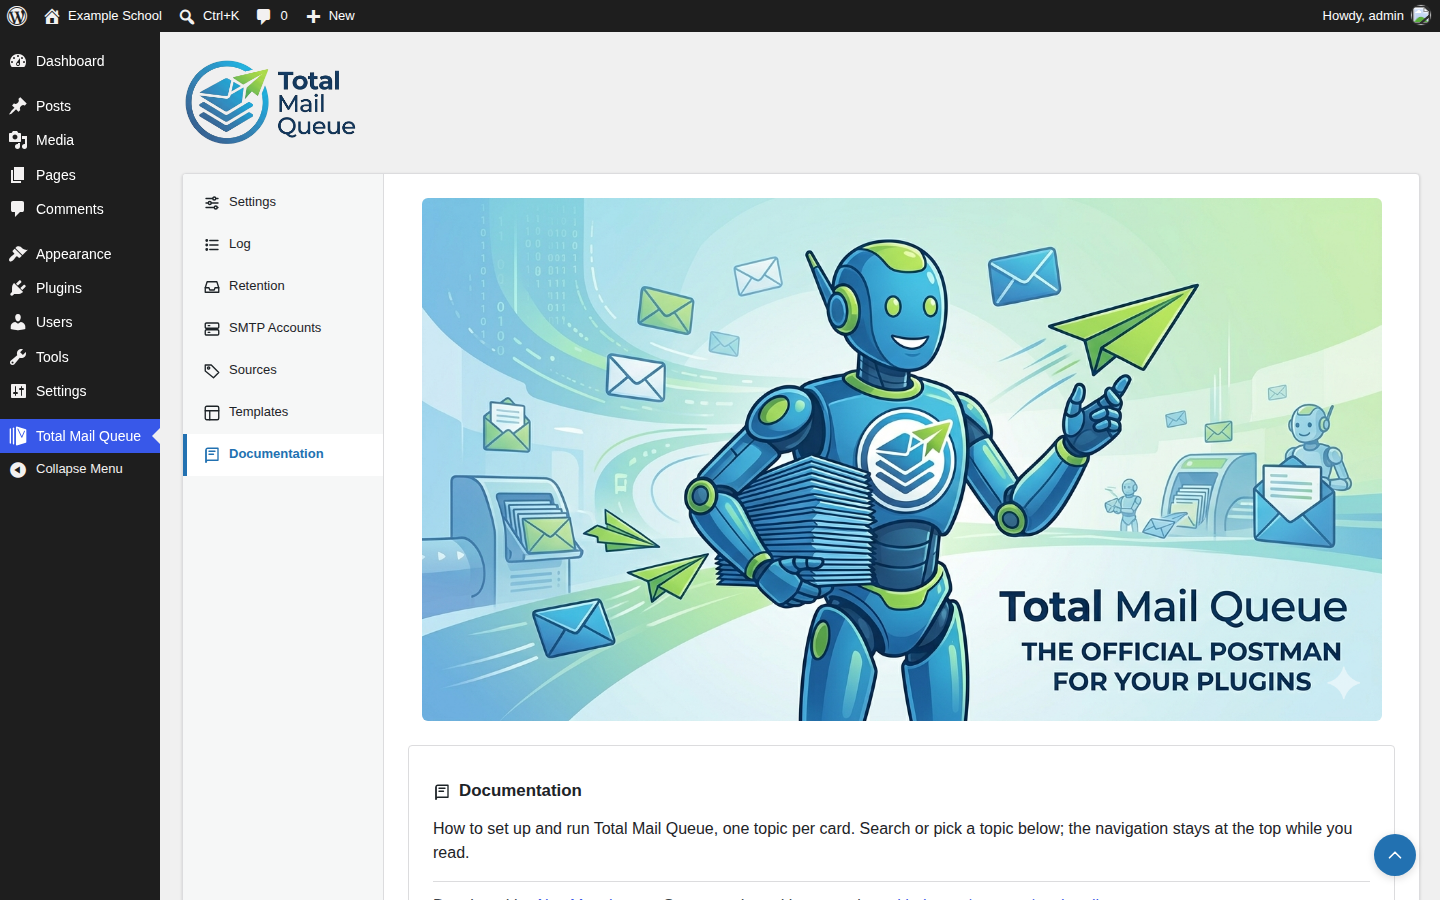
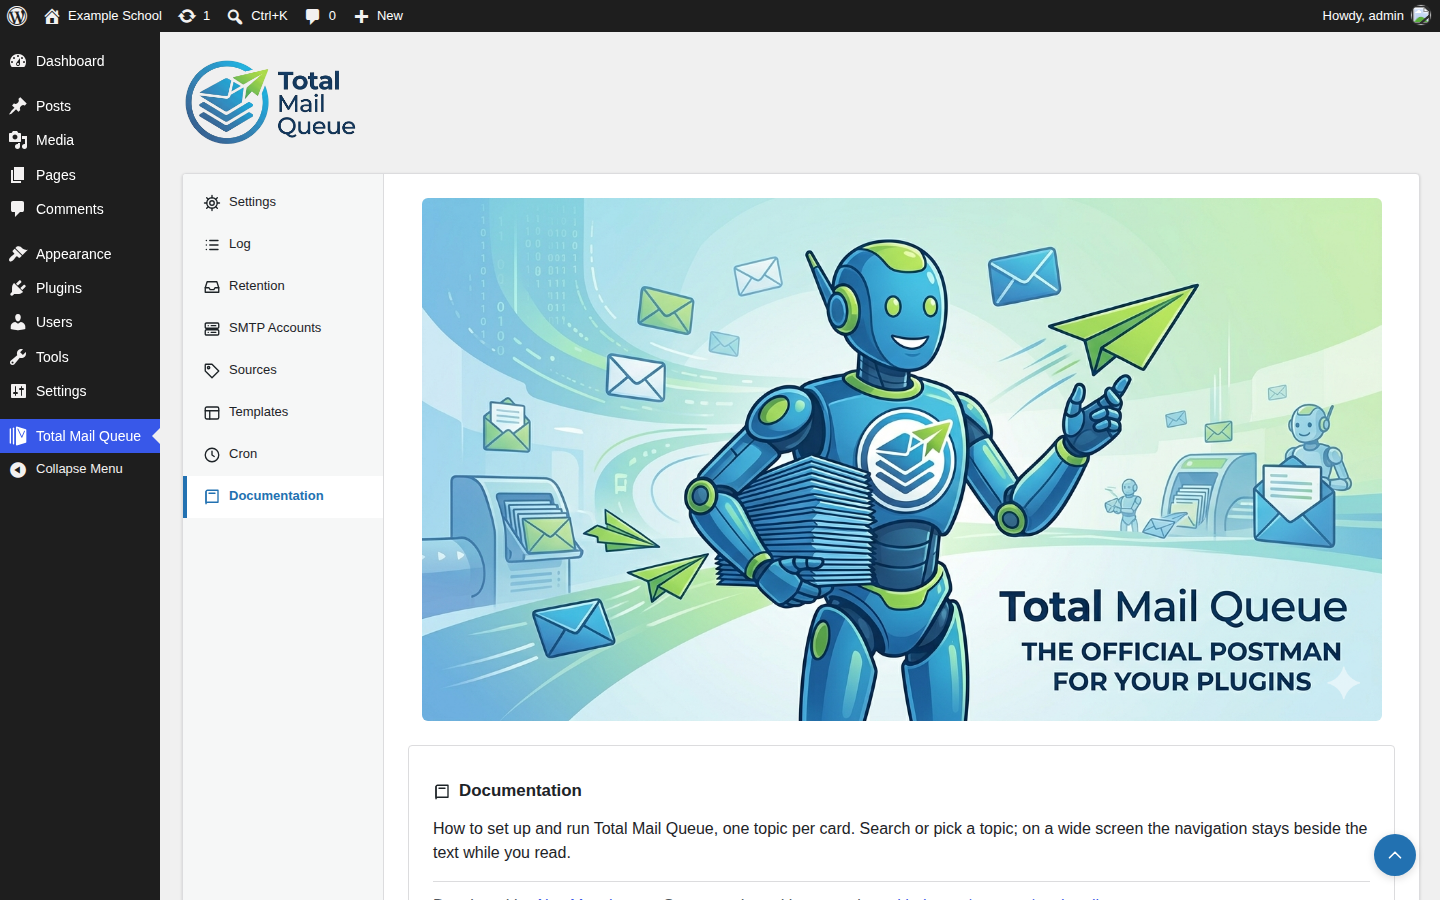
release: 2.12.0 — bump, finalize CHANGELOG, review docs
- Version 2.12.0 at its three sites; [Unreleased] becomes [2.12.0].
- readme.txt: 2.12.0 changelog entry, Upgrade Notice, Cron in the
  feature list, the FAQ and the screenshot list.
- README: a Cron section with its screenshot; Installation points at it.
- Docblocks still describing the Cron Information tab that only appeared
  with DISABLE_WP_CRON now describe the always-shown Cron tab.
- All screenshots re-captured in English with the same script and
  framing, plus 10-cron.

Claude-Session: https://claude.ai/code/session_018srx5hc431EYmG4MHUr2KA

diff --git a/src/admin/plugin-page.php b/src/admin/plugin-page.php
@@ -1,6 +1,6 @@
 <?php
 /**
- * Top-level admin page renderer (Settings / Log / Retention / SMTP / Sources / Templates / Cron Info / Documentation).
+ * Top-level admin page renderer (Settings / Log / Retention / SMTP / Sources / Templates / Cron / Documentation).
  *
  * @package TotalMailQueue
  */
@@ -31,8 +31,7 @@ use TotalMailQueue\Settings\Options;
  * - Sources   → delegated to {@see SourcesPage}.
  * - Templates → delegated to {@see TemplatesPage}.
  * - Documentation → {@see Documentation}; the old FAQ slug opens it too.
- * - Cron Info → delegated to {@see CronInfoPage} (only registered when
- *               `DISABLE_WP_CRON` is truthy).
+ * - Cron      → delegated to {@see CronInfoPage}.
  */
 final class PluginPage {
 

diff --git a/tests/Unit/AdminIconsAndSectionsTest.php b/tests/Unit/AdminIconsAndSectionsTest.php
@@ -22,9 +22,6 @@ final class AdminIconsAndSectionsTest extends TestCase {
             self::assertArrayHasKey( $slug, Icons::TABS, "{$slug} has no icon." );
             self::assertArrayHasKey( Icons::TABS[ $slug ], Icons::PATHS, "{$slug}'s icon is not drawn." );
         }
-        // Cron Information only appears while WP-Cron is disabled, but it is
-        // still a tab and still needs a drawing.
-        self::assertArrayHasKey( Icons::TABS[ PluginPage::TAB_CRON_INFO ], Icons::PATHS );
     }
 
     public function test_drawings_use_a_closed_vocabulary(): void {

diff --git a/src/admin/notices.php b/src/admin/notices.php
@@ -127,7 +127,7 @@ final class Notices {
 	 * Warn manage_options users when mail is piling up but the worker hasn't
 	 * run in a while — the classic symptom of WP-Cron only firing while an
 	 * admin is logged in (cached front-end / low traffic). Works whether or
-	 * not `DISABLE_WP_CRON` is set, unlike the Cron Information tab.
+	 * not `DISABLE_WP_CRON` is set; the Cron tab shows the same state in full.
 	 *
 	 * @param array<string,mixed> $options Plugin options snapshot.
 	 */

diff --git a/src/admin/access.php b/src/admin/access.php
@@ -12,7 +12,7 @@ namespace TotalMailQueue\Admin;
 /**
  * The plugin's two capabilities and every decision built on them.
  *
- * - {@see self::VIEW} opens the Log, Retention, Sources, Cron Information and
+ * - {@see self::VIEW} opens the Log, Retention, Sources, Cron and
  *   the documentation, read-only.
  * - {@see self::MANAGE} also changes settings, sources and templates, runs
  *   bulk actions and reads message bodies. It includes VIEW.

diff --git a/total-mail-queue.php b/total-mail-queue.php
@@ -3,7 +3,7 @@
  * Plugin Name:       Total Mail Queue
  * Plugin URI:        https://github.com/rpgmem/total-mail-queue
  * Description:       Take Control and improve Security of wp_mail(). Queue and log outgoing emails, and get alerted, if your website wants to send more emails than usual.
- * Version:           2.11.0
+ * Version:           2.12.0
  * Requires at least: 5.9
  * Requires PHP:      8.1
  * Author:            Alex Meusburger

diff --git a/src/plugin.php b/src/plugin.php
@@ -23,7 +23,7 @@ final class Plugin {
 	 * Plugin version. Kept in sync with the header in total-mail-queue.php
 	 * and used by the upgrade routine to detect schema bumps.
 	 */
-	public const VERSION = '2.11.0';
+	public const VERSION = '2.12.0';
 
 	/**
 	 * Minimum required PHP version (mirrors the plugin header).

diff --git a/README.md b/README.md
@@ -49,6 +49,12 @@ Wrap plain-text and HTML mail in one template with your own header, footer and c
 | --- | --- |
 | ![Settings](docs/screenshots/06-settings.png) | ![Access](docs/screenshots/07-access.png) |
 
+## Cron
+
+The queue is sent by WP-Cron, which only runs when someone visits the site. The **Cron** tab says whether the queue worker is running, asleep, waiting for an SMTP limit, overdue or stalled, with its next and last run. It also shows whether WP-Cron's visit trigger is on and which scheduled events are overdue. For administrators, it builds the server cron line to copy (WP-CLI, wget or curl) at the frequency you choose.
+
+![Cron](docs/screenshots/10-cron.png)
+
 ## More
 
 - **Export / Import:** plugin settings and SMTP accounts move between sites as an XML file.
@@ -67,7 +73,7 @@ Wrap plain-text and HTML mail in one template with your own header, footer and c
 
 Later updates arrive through the normal WordPress update screen, straight from this repository's releases. Each package is checked against its SHA-256 before it is installed.
 
-The queue is sent by WP-Cron, so make sure it runs reliably. On a site behind a page cache, or with little traffic, call `wp-cron.php` from a server cron job every few minutes.
+The queue is sent by WP-Cron, so make sure it runs reliably. On a site behind a page cache, or with little traffic, call `wp-cron.php` from a server cron job every few minutes: the Cron tab gives the exact line.
 
 ## Documentation and credits
 

diff --git a/CHANGELOG.md b/CHANGELOG.md
@@ -7,6 +7,10 @@ The format follows [Keep a Changelog] (https://keepachangelog.com/en/1.1.0/).
 
 ## [Unreleased]
 
+## [2.12.0] (2026-10-12)
+
+A Cron tab that says whether the queue is being sent and gives the server cron line, Free Form Certificate's icons, colours and documentation navigation, empty number fields that keep their value, and authenticated SMTP passwords.
+
 ### Added
 
 - **Coverage floor and three guards** (#113). CI now fails below a merged line-coverage floor, and the unit suite checks that the version and the PHP and WordPress floors agree across every file that declares them, that the Upgrade Notice describes the release on offer, and that every suppression names its rule and a reason.
